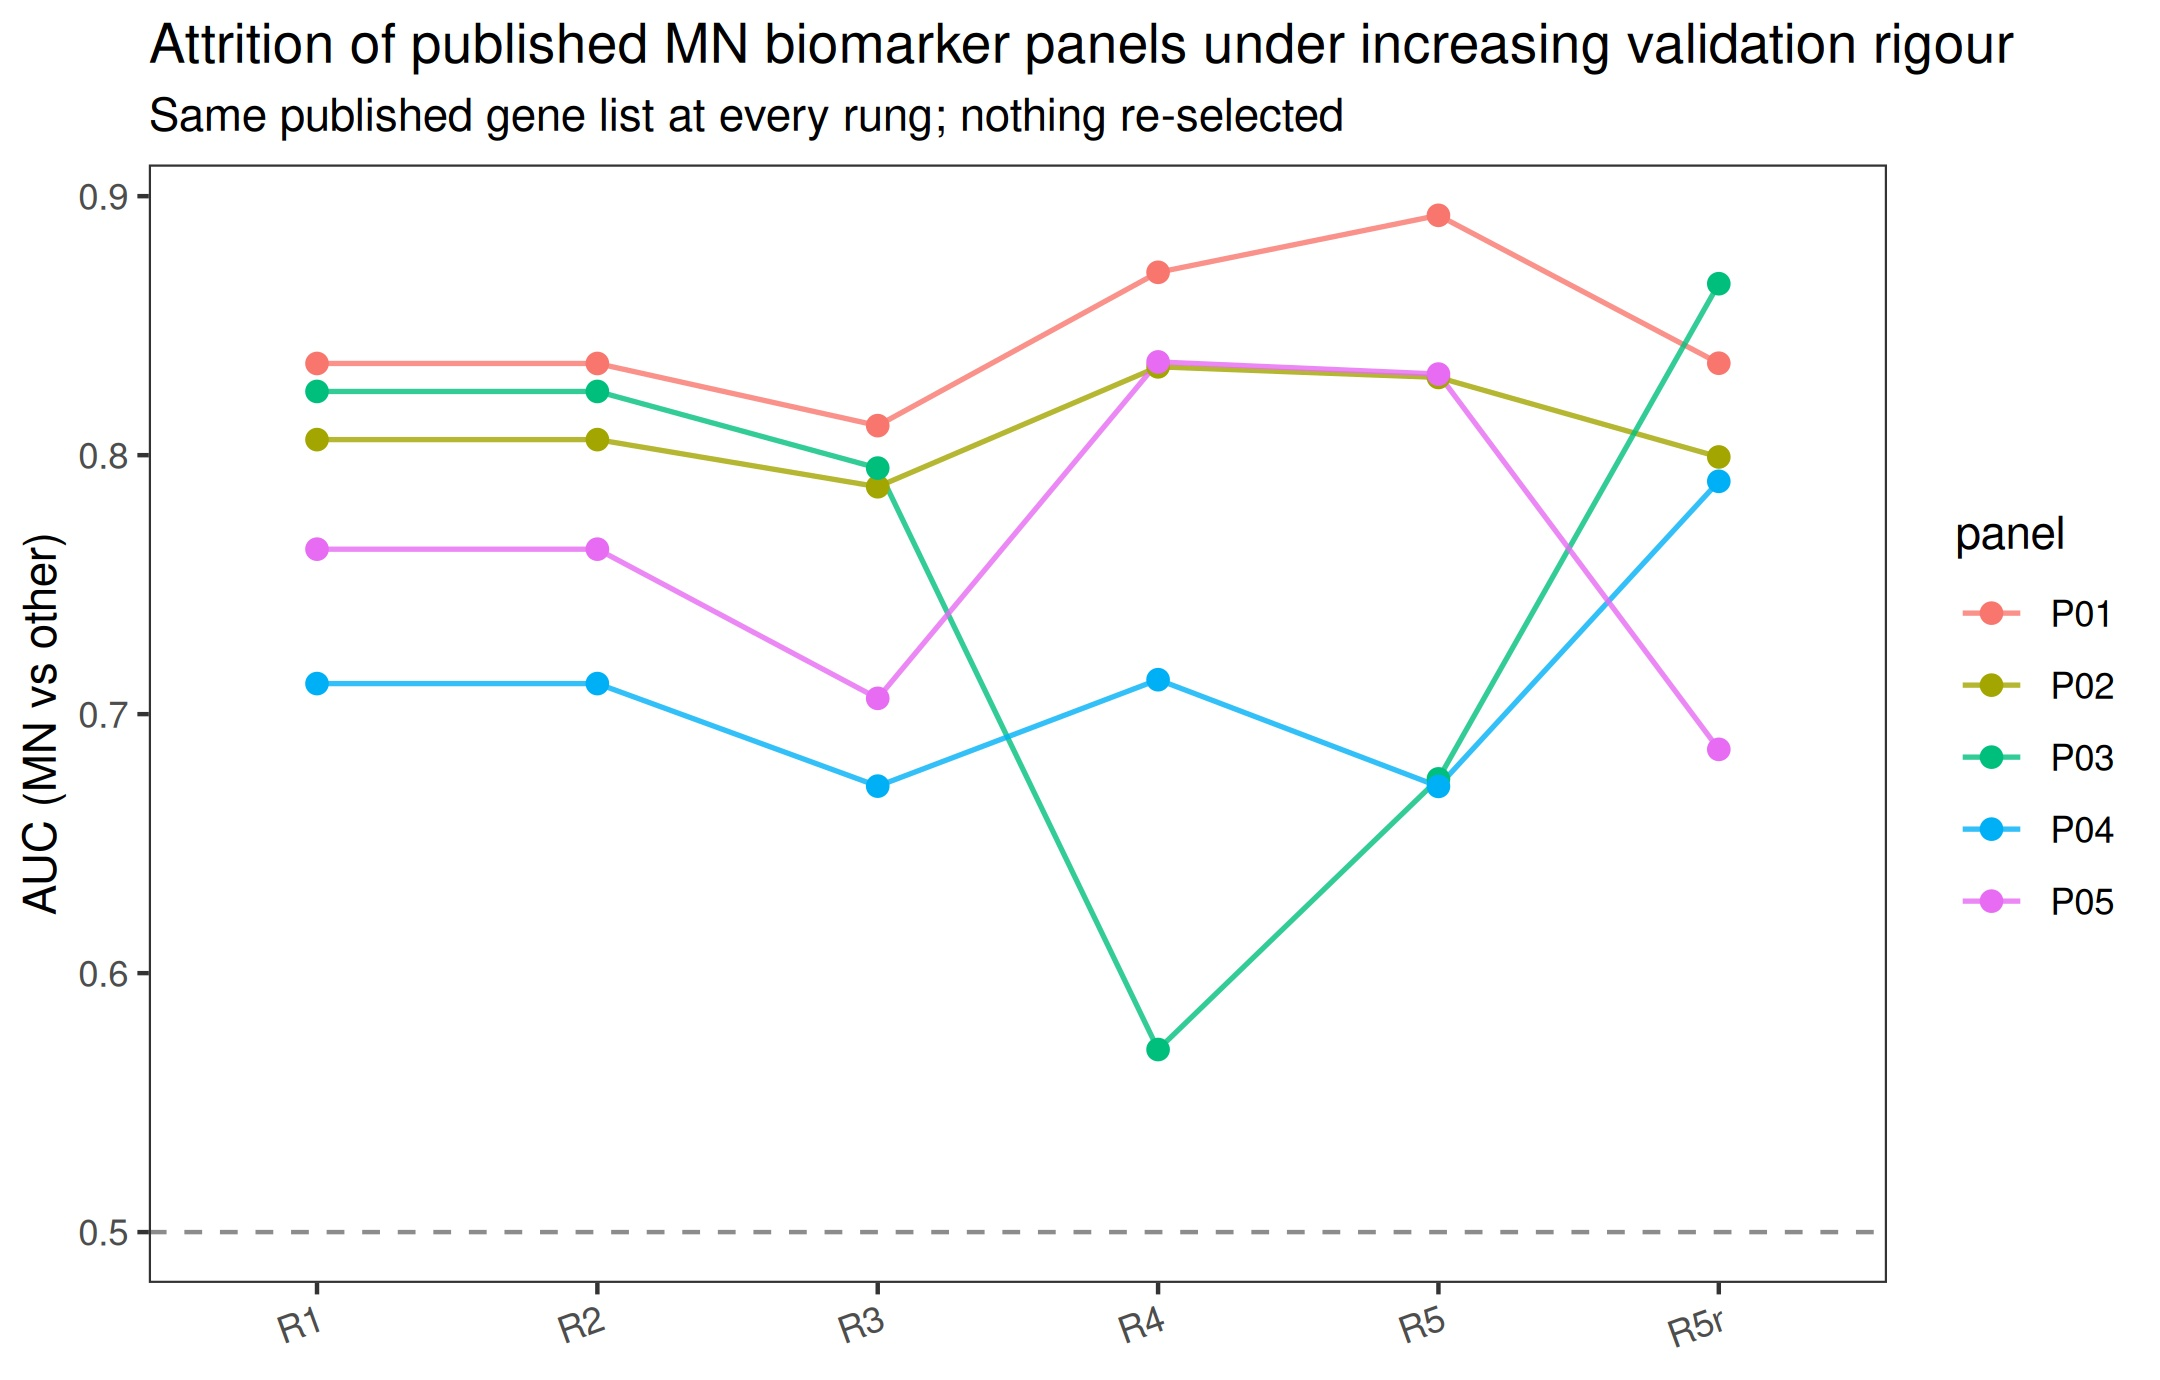
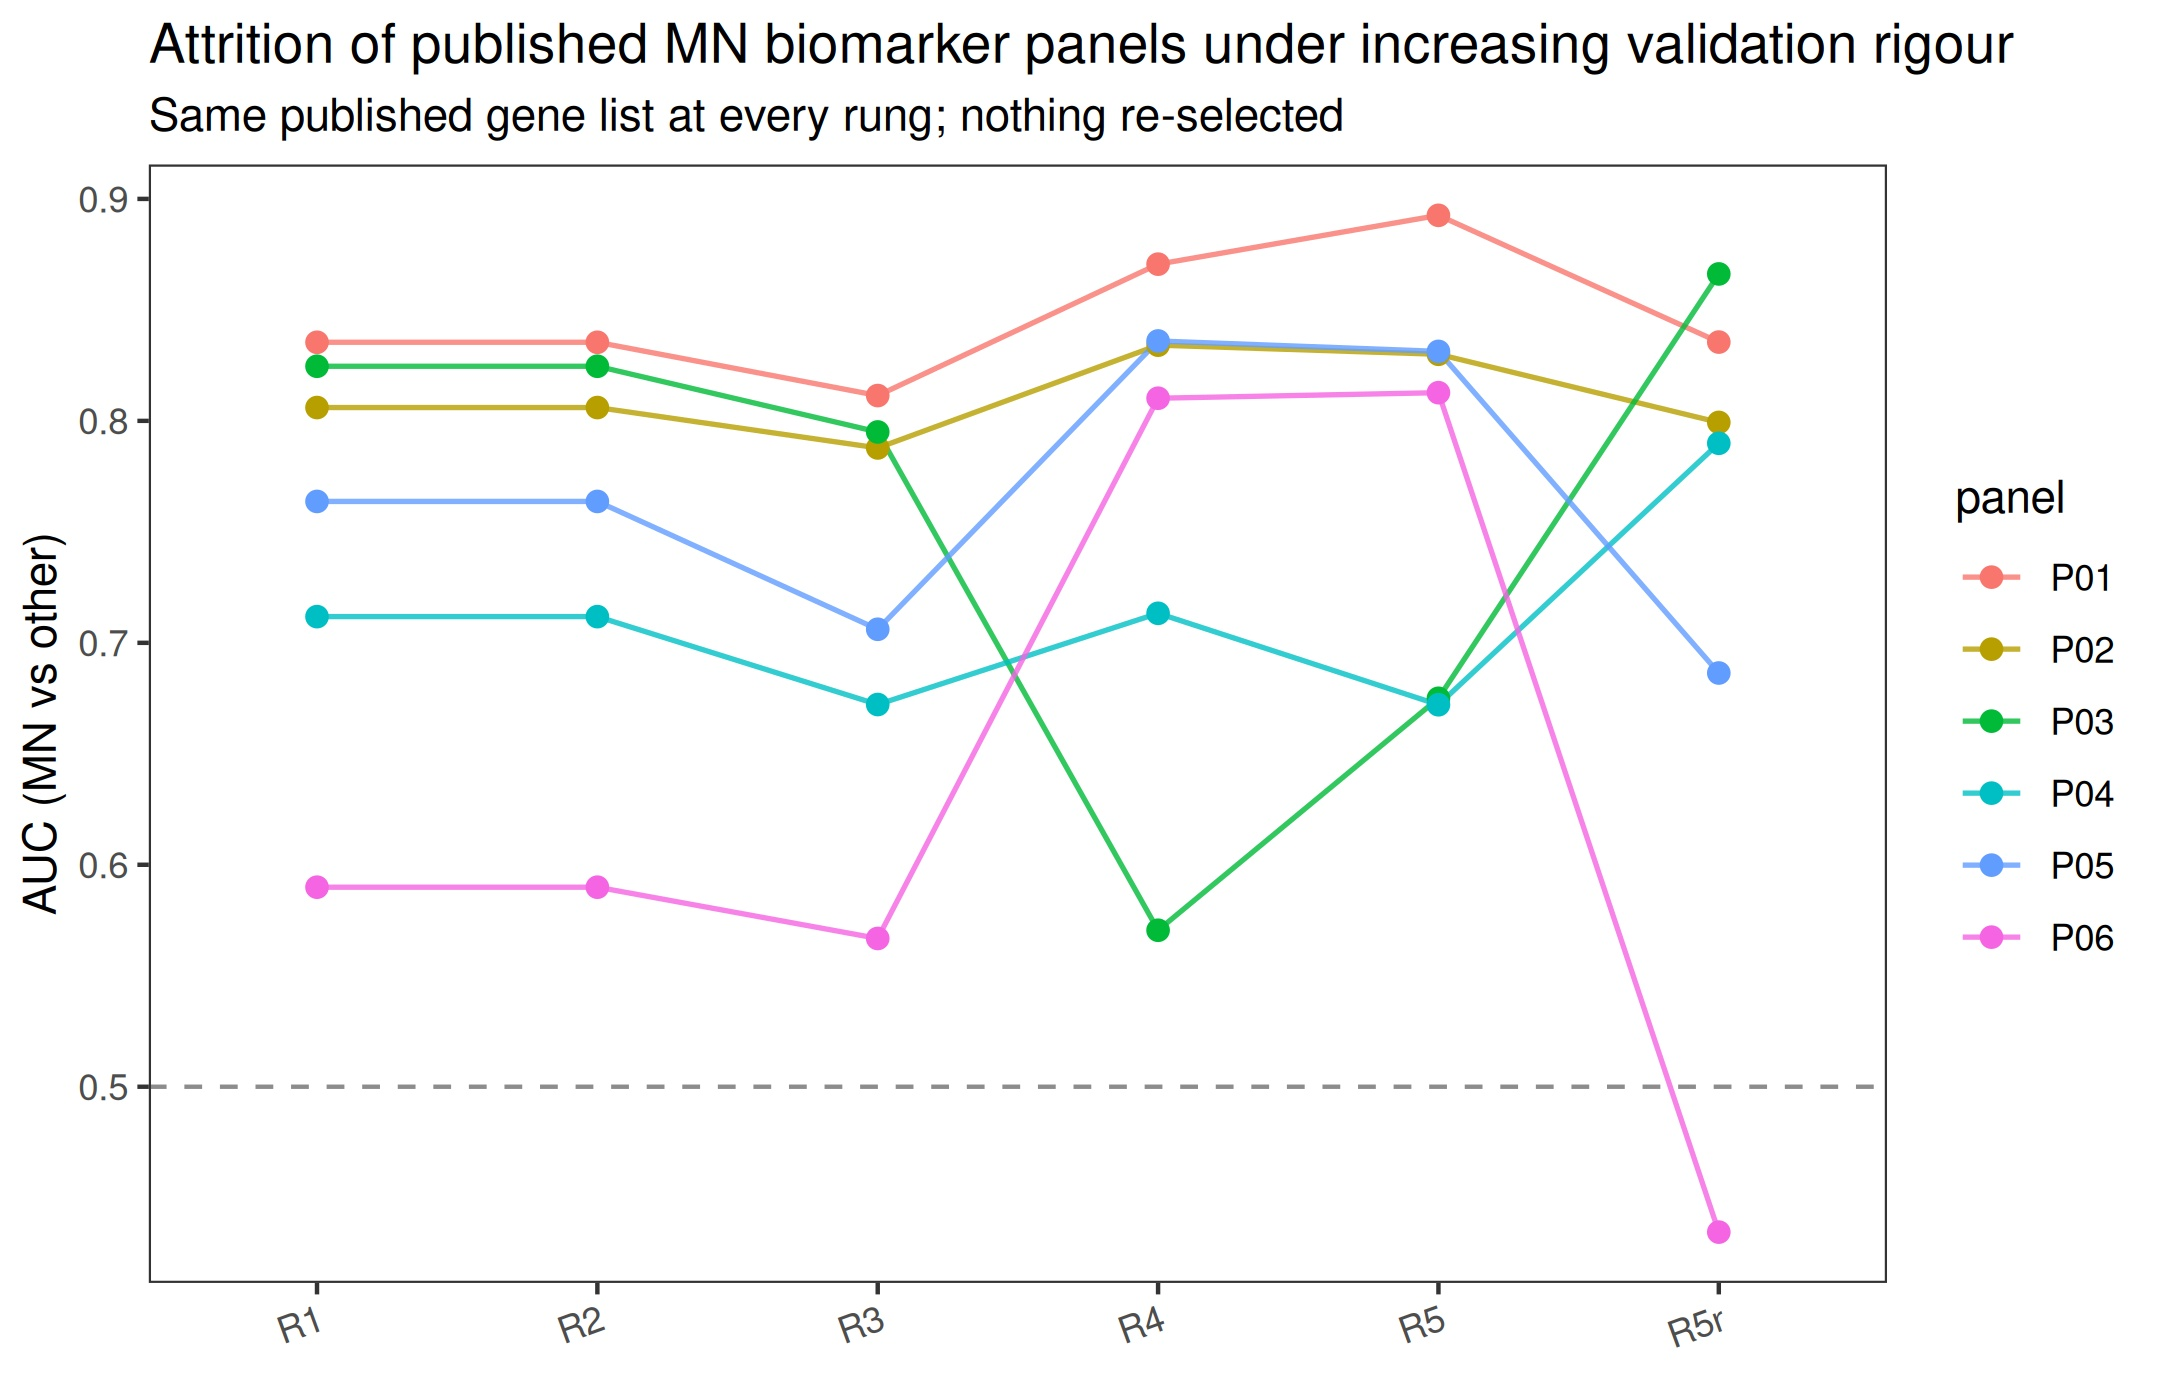
Track B: expand to 6 panels; add exclusions log; tighten the verifier
Adds P06 (Zhang 2023, Front Immunol, CSF1R+CYBB, DOI 10.3389/fimmu.2023.1252347) and
metadata/trackB_exclusions.csv documenting two rejected candidates with reasons (single-gene
SLC1A5 study below the panel threshold; 2022 preprint with no retrievable identifier whose
ECM1 already appears in P01).

Verifier now enforces: identifier = PMID or DOI, >=2 genes per panel, and every excluded
candidate carries a stated reason (27 assertions, green). Fixed a bug of mine: the identifier
assertion lacked all() and so failed on a length-6 logical vector.

6-panel ladder: median R1 0.785, R3 0.747, R5 0.821, median drop R1->R5 -0.041, 0/6 panels
beat their refit null. P06 is the sharpest case both ways: apparent 0.590 -> external 0.813,
but RNA-seq 0.435.

diff --git a/Paper1_strategy_v2_2026-11-18.md b/Paper1_strategy_v2_2026-11-18.md
@@ -116,16 +116,18 @@ For every panel, compute AUC at each rung and report the **drop**:
 **Pre-registered hypothesis (2026-11-18, before any computation):** median R5 AUC across published
 panels < 0.70, i.e. most reported MN panel performance does not survive rigorous validation.
 
-**STATUS: FALSIFIED — pilot run 2026-11-18 (5 panels, `output/tables/10c_attrition.csv`).** Median R5
-was **0.830** and median R1→R5 change **−0.024**, i.e. the published panels *do* transfer. The
+**STATUS: FALSIFIED — pilot run 2026-11-18 (6 panels, `output/tables/10c_attrition.csv`).** Median R5
+was **0.821** and median R1→R5 change **−0.041**, i.e. the published panels *do* transfer. The
 hypothesis was wrong, and the pilot produced a sharper and more defensible claim (§3.5). Recording the
 falsification is the point: the ladder was specified with its wrong answer attached, so the corrected
 claim cannot be a post-hoc story.
 
 ### 3.5 Pilot result (2026-11-18) — what the ladder actually showed
 
-Five panels (P01–P05, register in `metadata/trackB_panel_register.csv`), 7 rungs, 35 rows, verifier
-`99_verify_trackb.R` green at 22 assertions.
+Six panels (P01–P06, register in `metadata/trackB_panel_register.csv`), 7 rungs, 42 rows, verifier
+`99_verify_trackb.R` green at 27 assertions. Two candidates were examined and excluded with recorded
+reasons in `metadata/trackB_exclusions.csv` (a single-gene SLC1A5 study, below the panel threshold; and
+a 2022 preprint with no retrievable identifier whose ECM1 gene already appears in P01).
 
 | Panel | R1 apparent | R3 nested CV | R4 transductive ERCB | R5 harmonised ERCB | R5 RNA-seq | R6 refit-null *p* |
 |---|---|---|---|---|---|---|
@@ -134,11 +136,12 @@ Five panels (P01–P05, register in `metadata/trackB_panel_register.csv`), 7 run
 | P03 Yang 2024 | 0.825 | 0.795 | 0.571 | **0.675** | 0.866 | 0.139 |
 | P04 Han 2023 | 0.712 | 0.672 | 0.713 | **0.672** | 0.790 | 0.269 |
 | P05 Han 2024 | 0.764 | 0.706 | 0.836 | **0.831** | 0.686 | 0.055 |
+| P06 Zhang 2023 | 0.590 | 0.567 | 0.810 | **0.813** | 0.435 | 0.075 |
 
 **Three findings, in order of strength:**
 
-1. **No published panel beats its own refit permutation null (0/5 at *p* < 0.05; *p* = 0.055–0.269).**
-   Yet all five reach R5 AUC 0.67–0.89. The reading is not "the panels fail" — it is that
+1. **No published panel beats its own refit permutation null (0/6 at *p* < 0.05; *p* = 0.055–0.269).**
+   Yet all six reach R5 AUC 0.67–0.89. The reading is not "the panels fail" — it is that
    *MN-versus-other-glomerulopathy is an intrinsically separable axis that any small gene set
    captures*. A randomly drawn 4–7-gene panel of the same size achieves a comparable ERCB AUC. **No MN
    paper reports this null**, and our own four-gene panel lands in exactly the same place (*p* = 0.11).
@@ -151,6 +154,11 @@ Five panels (P01–P05, register in `metadata/trackB_panel_register.csv`), 7 run
    exactly) — but the field's redundancy is *cross-compartment*: P01 "validates" a glomerular
    discovery in GSE133288, the tubulointerstitial series of the same NEPTUNE patients. Independence
    failure in the literature is at the patient level across compartments, not duplicated rows.
+
+**P06 is the sharpest single illustration, in both directions.** Its apparent AUC is the lowest of the
+six (0.590) yet its harmonised external AUC is 0.813 — a panel that looks weak in its own cohort and
+strong in someone else's, which is what random small panels do. Its RNA-seq transfer, however, is 0.435
+(below chance), i.e. the "external success" of a two-gene model is itself fragile across platforms.
 
 **Secondary observations to carry forward:** 3 of 5 panels lose at least one published gene in a shared
 three-cohort gene space (P04 loses two non-coding genes, N4BP2L2-IT2 and SCARNA9, which are not
@@ -225,7 +233,7 @@ MR + coloc for the four genes; pQTL anchoring; then IF (MYOZ2 first) — the exi
 
 | # | Claim | Killer experiment | Current status |
 |---|---|---|---|
-| N1 | **Published MN panels transfer (AUC 0.67–0.89) but none is distinguishable from a same-size random panel — the refit null, which no MN paper reports, is the only rung that separates gene-specific biology from the generic MN-vs-other axis** | the ladder: if any panel survives R6 at *p* < 0.05 with a stable R5, the claim dies | **pilot done: 0/5 significant, so the claim holds on 5 panels.** Expand to ≥10 before submission |
+| N1 | **Published MN panels transfer (AUC 0.67–0.89) but none is distinguishable from a same-size random panel — the refit null, which no MN paper reports, is the only rung that separates gene-specific biology from the generic MN-vs-other axis** | the ladder: if any panel survives R6 at *p* < 0.05 with a stable R5, the claim dies | **pilot done: 0/6 significant on 6 panels.** Expand to ≥10 before submission |
 | N2 | The standardisation convention, not gene choice, dominates external AUC | R4 vs R5 across panels | **pilot supports it: Δ up to 0.22, in both directions, across 5 independent panels** |
 | N3 | MN signal is glomerular-specific | TI transfer (0.449) | **done, E2** |
 | N4 | A four-gene panel transports across four sources | ERCB/RNA-seq/LCM/alt-CDF | **done, E2**; refit null p = 0.11 is the honest limit |

diff --git a/handoff.md b/handoff.md
@@ -1132,13 +1132,18 @@ submission and the repository cannot diverge.
 
 New code: `R/10b_harmonised_matrices.R` (caches the shared harmonisation so the benchmark and the gate
 use ONE implementation — P-63), `R/10c_panel_reproduction.R` (the 7-rung ladder),
-`R/99_verify_trackb.R` (**22 assertions, green**). Register: `metadata/trackB_panel_register.csv`
-(5 panels with PMID/DOI/cohorts/gene lists/reported performance, each flagged for whether it stated
-de-duplication and standardisation — all 5: no). Outputs: `output/tables/10c_attrition.csv` (35 rows),
+`R/99_verify_trackb.R` (**27 assertions, green**: identifier = PMID or DOI, ≥2 genes per panel,
+exclusions logged with reasons). Register: `metadata/trackB_panel_register.csv`
+(6 panels with PMID/DOI/cohorts/gene lists/reported performance, each flagged for whether it stated
+de-duplication and standardisation — all 6: no). Two further candidates are logged as exclusions with
+reasons in `metadata/trackB_exclusions.csv`. Outputs: `output/tables/10c_attrition.csv` (42 rows),
 `10c_panel_summary.csv`, `output/models_trackb/10c_attrition.{pdf,jpeg}`.
 
 **The pre-registered hypothesis was FALSIFIED, and that is the result.** I predicted median R5 AUC
-< 0.70; the pilot gave **0.830** (median R1→R5 change −0.024). Published panels DO transfer.
+< 0.70; the 6-panel pilot gave **0.821** (median R1→R5 change −0.041). Published panels DO transfer.
+P06 is the sharpest illustration: apparent AUC 0.590 but external 0.813, with RNA-seq at 0.435 — a
+weak-looking panel that "succeeds" externally and fails on the other platform, exactly what a random
+small gene set does.
 
 | Panel | R1 | R3 | R4 transductive | R5 harmonised | R5 RNA-seq | R6 refit-null p |
 |---|---|---|---|---|---|---|
@@ -1147,8 +1152,9 @@ de-duplication and standardisation — all 5: no). Outputs: `output/tables/10c_a
 | P03 Yang 2024 (38846934) | 0.825 | 0.795 | 0.571 | 0.675 | 0.866 | 0.139 |
 | P04 Han 2023 (37974210) | 0.712 | 0.672 | 0.713 | 0.672 | 0.790 | 0.269 |
 | P05 Han 2024 (38029552) | 0.764 | 0.706 | 0.836 | 0.831 | 0.686 | 0.055 |
+| P06 Zhang 2023 (DOI 10.3389/fimmu.2023.1252347) | 0.590 | 0.567 | 0.810 | 0.813 | 0.435 | 0.075 |
 
-**Replacement claim (stronger): 0/5 panels beats its own refit permutation null (p = 0.055–0.269) while
+**Replacement claim (stronger): 0/6 panels beats its own refit permutation null (p = 0.055–0.269) while
 all reach R5 0.67–0.89 — so MN-versus-other is an axis any small gene set captures, and no MN paper
 reports that null. Our own four-gene panel (p = 0.11) sits in exactly the same place.** Secondary:
 the standardisation convention moves R4→R5 by up to 0.22 in *both* directions (N2 now quantified
